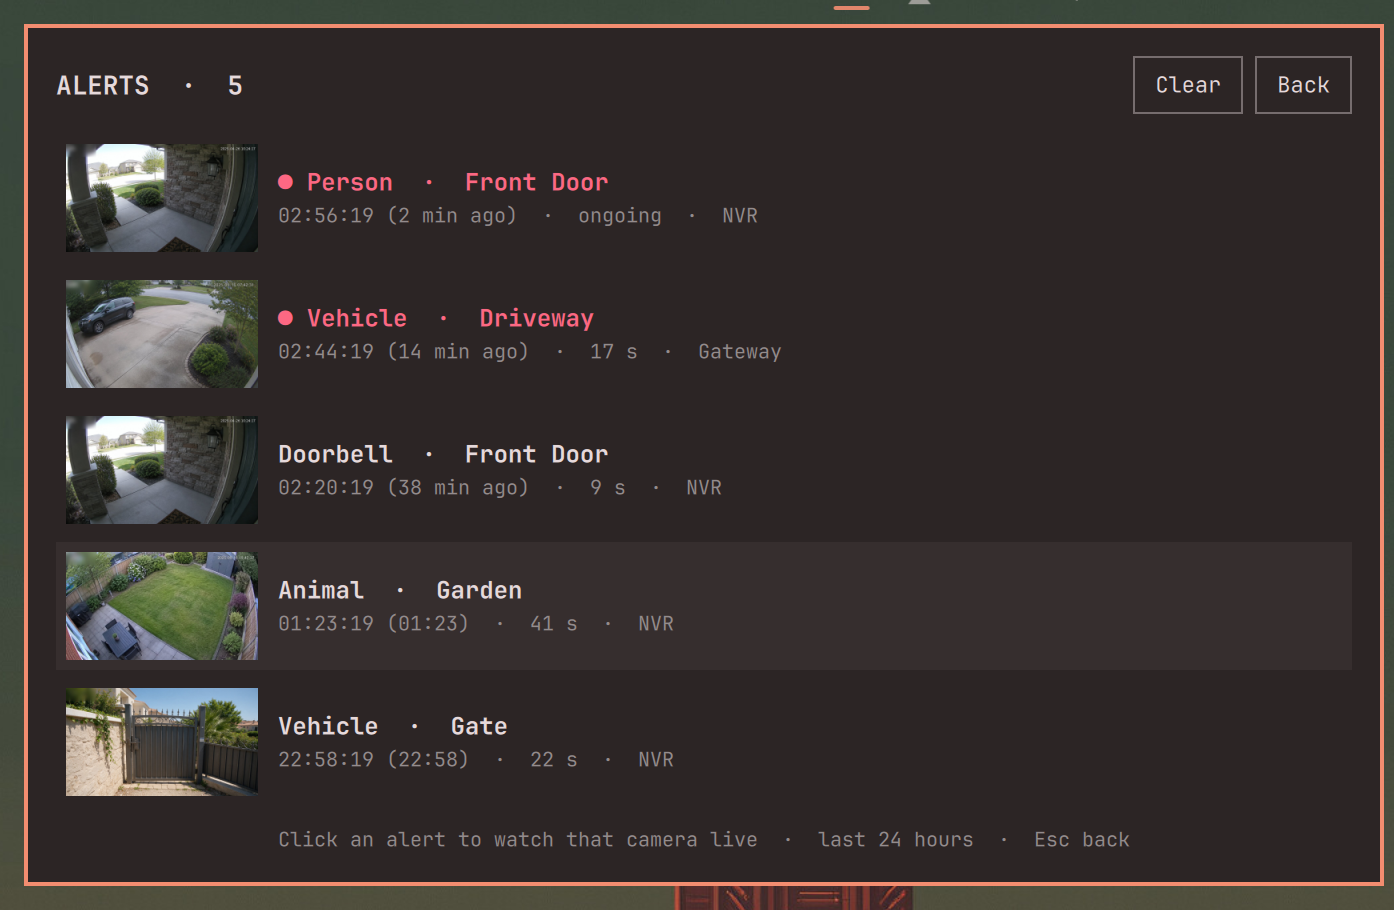
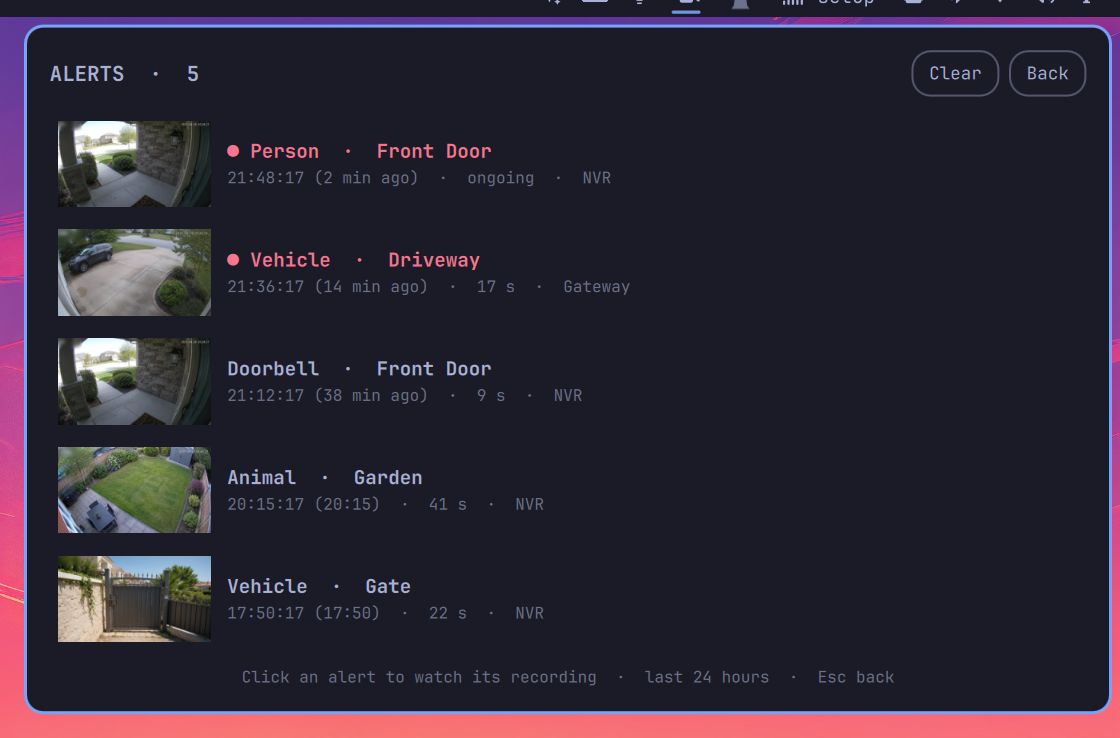
README: recordings screenshot, sound and recordings details (#25)
* README: recordings screenshot, sound and recordings details

- New recordings screenshot next to the live view; every screenshot
  retaken on the current UI
- Sound covers recordings and the default output; files table, removal
  steps and disclaimer cover the recordings login
- uninstall.sh --purge also clears recordings passwords from the keyring
- tools/screenshots.sh takes a workspace and restores which alerts were
  seen

* Review fixes: screenshot guard checks the monitor, plain workspace names

- The guard also requires the captured monitor to be the focused one, so a
  workspace on another monitor can never expose the real screen
- The workspace argument must be a plain name before it reaches hyprctl
- uninstall.sh prompts mention recordings logins; README lines rewrapped

diff --git a/README.md b/README.md
@@ -1,12 +1,12 @@
 # UniFi Protect for Omarchy
 
 Your UniFi Protect cameras in the Omarchy bar: a grid of auto-refreshing
-snapshots, live video right in the panel, a camera wall with every camera
-live at once, and a pop-out player. Works with several consoles at once, such
-as a gateway and a dedicated NVR, and is set up from the panel itself. Arm a
-camera to be alerted when it sees a person, a vehicle or a doorbell ring,
-and play back what each camera recorded. Video travels encrypted, and API
-keys stay out of the shell.
+snapshots, live video with sound right in the panel, a camera wall with every
+camera live at once, and a pop-out player. Works with several consoles at
+once, such as a gateway and a dedicated NVR, and is set up from the panel
+itself. Arm a camera to be alerted when it sees a person, a vehicle or a
+doorbell ring, and play back what each camera recorded. Video travels
+encrypted, and API keys stay out of the shell.
 
 In the bar it is a single camera icon. It pulses in your theme's urgent
 colour when an armed camera has seen something, turns that colour when a
@@ -28,7 +28,9 @@ Version 0.3.0 · [Changelog](CHANGELOG.md) · MIT licensed · by ELD Technologie
 |---|---|
 | ![The panel: a grid of six camera snapshots, an alert badge on Front Door, and armed cameras marked with a bell](docs/screenshots/panel-grid.jpg) | ![The alert log: what was seen, where, when and for how long, each with a snapshot](docs/screenshots/panel-alerts.png) |
 
-![Live view of the Front Door camera in the panel](docs/screenshots/panel-live.jpg)
+| Live view | Recordings |
+|---|---|
+| ![Live view of the Front Door camera in the panel](docs/screenshots/panel-live.jpg) | ![Recordings of the Front Door camera: a doorbell ring playing back with a REC badge and a seek bar, above a list of detections with thumbnails](docs/screenshots/panel-recordings.jpg) |
 
 *The camera pictures in these screenshots are AI-generated for demo purposes; they show no real place or person. The screenshots themselves are of the real plugin, running in [demo mode](#developing).*
 
@@ -41,7 +43,10 @@ Version 0.3.0 · [Changelog](CHANGELOG.md) · MIT licensed · by ELD Technologie
 - `secret-tool` from `libsecret` and a keyring such as `gnome-keyring` (both
   ship with Omarchy) to keep API keys in the keyring; optional, see below
 - `qt6-multimedia-ffmpeg` for live video (ships with Omarchy)
-- `mpv`, optional, for the pop-out player: `omarchy pkg add mpv`
+- `mpv`, optional, for the pop-out player and recorded clips in their own
+  window: `omarchy pkg add mpv`
+- For [recordings](#recordings), optional: a local UniFi account on each
+  console that records
 - `notify-send` from `libnotify` for alert notifications (ships with Omarchy)
 
 ## Install
@@ -131,7 +136,9 @@ eld-unifi-protect remove nvr
 ### Sound
 
 Sound plays whenever exactly one camera is on screen: the panel's live view,
-an enlarged camera on the wall, and the pop-out player. The grid and the
+a recording playing back, an enlarged camera on the wall, and the pop-out
+player. It goes to your system's default output and follows it, so
+headphones connected after login are picked up. The grid and the
 wall's tiles are always silent (they don't even decode audio). `M` mutes;
 the choice carries over while you flip between cameras, and opening a camera
 from the grid again starts with sound. Set `sound` to `false` to start
@@ -315,11 +322,11 @@ The plugin's own files:
 
 | Path | Contents |
 |------|----------|
-| Desktop keyring (Secret Service) | API keys, when a keyring is available |
-| `~/.config/eld-unifi-protect/config.json` | Consoles and pinned certificates; API keys only if there is no keyring (mode 0600) |
+| Desktop keyring (Secret Service) | API keys and recordings passwords, when a keyring is available |
+| `~/.config/eld-unifi-protect/config.json` | Consoles, pinned certificates and recordings usernames; API keys and passwords only if there is no keyring (mode 0600) |
 | `~/.config/eld-unifi-protect/cameras.json` | Hidden cameras, favourite, armed cameras, read-only setting (no secrets) |
 | `~/.local/state/eld-unifi-protect/state.json` | Last camera list |
-| `$XDG_RUNTIME_DIR/eld-unifi-protect/` | Snapshots, stream URLs, recent alerts and their notification pictures (tmpfs, gone on reboot) |
+| `$XDG_RUNTIME_DIR/eld-unifi-protect/` | Snapshots, stream URLs, recent alerts and their notification pictures, recordings sessions, thumbnails and clips (tmpfs, gone on reboot) |
 
 ## How it works
 
@@ -402,18 +409,21 @@ If you installed with `omarchy plugin add`:
 omarchy plugin remove com.eldtechnologies.unifi-protect
 rm -rf ~/.config/eld-unifi-protect ~/.local/state/eld-unifi-protect
 secret-tool clear service eld-unifi-protect
+secret-tool clear service eld-unifi-protect-login
 ```
 
-`omarchy plugin remove` deletes only the plugin folder, so the last two lines
-are needed to delete your settings and API keys (the last one clears keys
-held in the keyring).
+`omarchy plugin remove` deletes only the plugin folder, so the last three
+lines are needed to delete your settings, API keys and recordings passwords
+(the `secret-tool` lines clear what is held in the keyring).
 
 If you installed with `./install.sh`, run `./uninstall.sh` from the checkout.
 It also removes the `eld-unifi-protect` command and asks whether to delete your
-API keys (`--purge` says yes, `--keep-config` says no).
+API keys and recordings passwords (`--purge` says yes, `--keep-config` says
+no).
 
-Either way, revoke the API keys on each console as well: deleting the local
-copy does not revoke them.
+Either way, revoke the API keys on each console as well, and delete the local
+recordings account if you made one: deleting the local copy does not revoke
+them.
 
 ## Developing
 
@@ -429,9 +439,9 @@ it from there. Record changes in `CHANGELOG.md`.
 **Demo mode** shows made-up consoles and cameras instead of yours, for
 screenshots, development, or trying the plugin without UniFi hardware:
 `eld-unifi-protect demo on` (and `demo off`). Your real config is never
-touched, and a reboot always ends it. `tools/screenshots.sh` captures the
-README screenshots from the real UI on demo data; see
-[docs/demo](docs/demo/README.md).
+touched, and a reboot always ends it. `tools/screenshots.sh [workspace]`
+captures the README screenshots from the real UI on demo data, on an empty
+workspace; see [docs/demo](docs/demo/README.md).
 
 Run the tests (standard library only; they never touch your real config,
 keys or consoles):
@@ -440,9 +450,9 @@ keys or consoles):
 python3 -m unittest discover -s tests -v
 ```
 
-They include an end-to-end test of the stream relay against a fake TLS
-console. CI runs them, plus a manifest check and `shellcheck`, on every pull
-request. To report a vulnerability, see [SECURITY.md](SECURITY.md).
+They include end-to-end tests of the stream relay, and of the recordings
+sign-in and clip export, against a fake TLS console. CI runs them, plus a
+manifest check and `shellcheck`, on every pull request. To report a vulnerability, see [SECURITY.md](SECURITY.md).
 
 ## Disclaimer
 
@@ -453,12 +463,14 @@ use. See [LICENSE](LICENSE) for the full terms. In particular:
 - It is not a security or monitoring system. Do not rely on it to record,
   detect, or alert on anything; use UniFi Protect itself for that. Alerts
   are missed while your computer is asleep, off, or offline.
-- It stores console API keys on your machine (in your keyring, or in a file
-  readable only by you) and can enable RTSPS streams on your cameras (unless
-  read-only mode is on). You are responsible for deciding whether that is
+- It stores console API keys, and the recordings password if you use
+  recordings, on your machine (in your keyring, or in a file readable only by
+  you) and can enable RTSPS streams on your cameras (unless read-only mode
+  is on). You are responsible for deciding whether that is
   acceptable for your network.
 - It uses UniFi Protect's Integration API, which Ubiquiti may change at any
-  time.
+  time. Recordings use the unpublished endpoints of Protect's own web app,
+  which may change without notice.
 
 UniFi, UniFi Protect and Ubiquiti are trademarks of Ubiquiti Inc. Omarchy
 belongs to its authors. These names are used here only to describe what this
